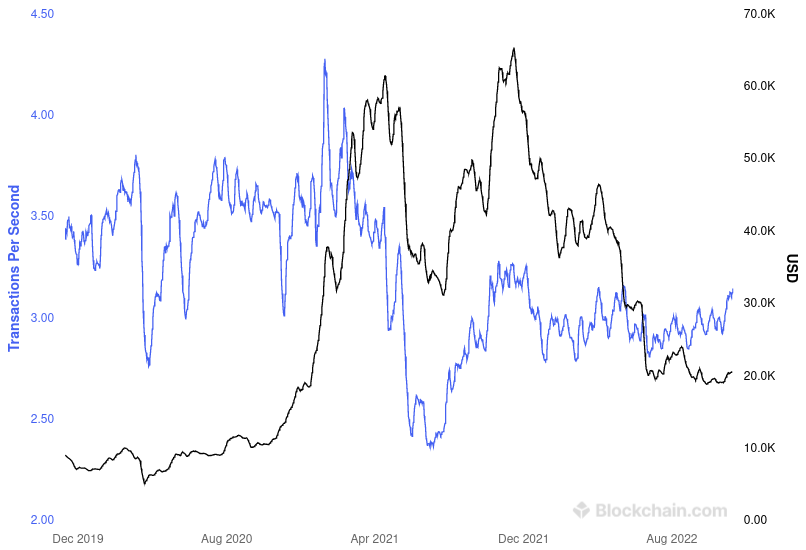
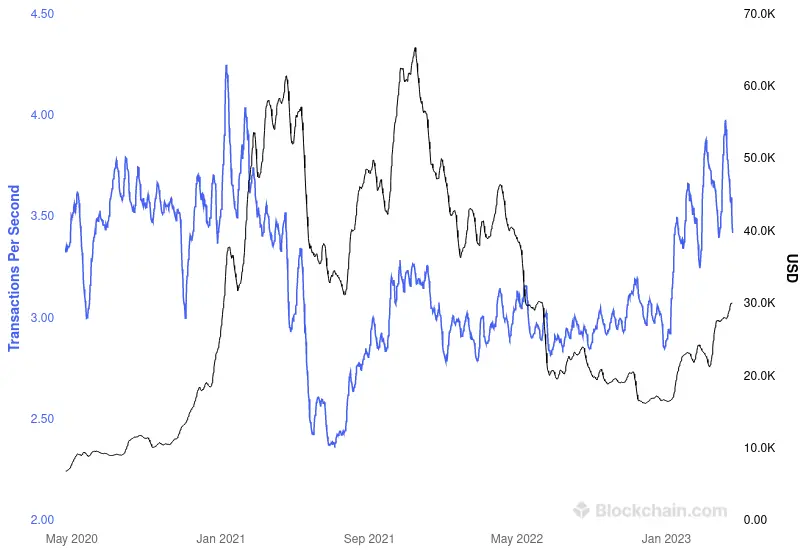
Updates to scalability.html

diff --git a/slides/scalability.html b/slides/scalability.html
@@ -78,12 +78,13 @@ line-height:120%;
 <section data-markdown data-separator="^\n\n\n"><textarea>
 ## BTC transactions per second
 [![](images/timely/btc-tps.webp)](https://www.blockchain.com/charts/transactions-per-second)
-<!-- to generate this graph: set to 7 day average, 3 year history, the right-click and "open image in new tab" -->
+<!-- to generate this graph: set to 7 day average, 3 year history, the right-click and "open image in new tab"; save and convert to .webp with -q 75 -->
 
 
 
 ## ETH & BTC fees, all time
 [![](images/timely/btc-eth-fees-alltime.webp)](https://bitinfocharts.com/comparison/transactionfees-btc-eth.html#alltime)
+<!-- to generate this graph: click on the image in the slide, screenshot it (and the next one), and edit in gimp; convert to .webp with -q 75 -->
 
 
 
@@ -214,15 +215,15 @@ The "parts" of a modern cryptocurrency can be thought of as different "layers", 
 
 <!-- .slide: class="cclogo-slide" -->
 ## Current blockchain stats
-- [![btc logo](../slides/images/logos/btc-coin-symbol.svg)](https://coinmarketcap.com/currencies/bitcoin/) Bitcoin averages:
+- [![btc logo](../slides/images/logos/btc-coin-symbol.svg)](https://coinmarketcap.com/currencies/bitcoin/) Bitcoin averages (as of 4/23/20):
     - $<$10 minute block time
-    - $\approx$3 Mb block size when busy, but [about 1.2 Mb lately](https://www.blockchain.com/charts/avg-block-size)
-    - [1,600 - 1,800 TXNs / block](https://www.blockchain.com/charts/n-transactions-per-block) (60 sec/min * 10 min * 3 TPS)
-    - [About 245,000 TXNs per day](https://www.blockchain.com/charts/n-transactions) ($\approx$2.8 TPS)
-- [![eth logo](../slides/images/logos/eth-coin-symbol.svg)](https://coinmarketcap.com/currencies/ethereum/) Ethereum (post PoS): 
-    - [13 seconds block time](https://etherscan.io/chart/blocktime)
-    - About 90 Kb block size
-        - That's [600 Mb per day](https://messari.io/charts/ethereum/blk-size-byte) added to the blockchain per day!
+    - $\approx$3 Mb block size when busy, but [about 1.7 Mb lately](https://www.blockchain.com/charts/avg-block-size)
+    - [1.8k - 2.5k TXNs / block](https://www.blockchain.com/charts/n-transactions-per-block) (60 sec/min * 10 min * 3 TPS)
+    - [About 300k TXNs per day](https://www.blockchain.com/charts/n-transactions) ($\approx$3.5 TPS)
+- [![eth logo](../slides/images/logos/eth-coin-symbol.svg)](https://coinmarketcap.com/currencies/ethereum/) Ethereum (post PoS) (as of 4/23/20):
+    - [12 seconds block time](https://etherscan.io/chart/blocktime)
+    - About 113 Kb block size
+        - That's [800 Mb per day](https://messari.io/charts/ethereum/blk-size-byte) added to the blockchain per day!
     - [1.1M TXNs per day](https://etherscan.io/chart/tx/) ($\approx$12.7 TPS)
         - Which is about 165 TXNs per block
     - About 13 transactions per second
@@ -230,10 +231,10 @@ The "parts" of a modern cryptocurrency can be thought of as different "layers", 
 
 
 ## Current blockchain stats
-- [Bitcoin's blockchain size](https://ycharts.com/indicators/bitcoin_blockchain_size) is $\approx$436 GB (as of 11/9/22)
+- [Bitcoin's blockchain size](https://ycharts.com/indicators/bitcoin_blockchain_size) is $\approx$475 GB (as of 4/20/23)
     - And increasing at about 150 Mb per day
 - Ethereum's full blockchain is about 1.7 Tb
-    - And increasing at about 600 Mb per day!
+    - And increasing at about 400 Mb per day!
 - This won't be sustainable with increased adoption
 
 
@@ -574,9 +575,9 @@ Roll-out is in three phases:
     - WBTC is thus an ERC-20 token cryptocurrency
 - Once on Ethereum, transactions are *faster*, if not *cheaper* than through Bitcoin
     - But not as fast as on the Lightning Network
-- As of August 2021 ([stats](https://www.bitcoin.com/get-started/what-is-lightning-network/)):
-    - LN had 2,300 BTC locked up
-    - WBTC had 250,000 BTC locked up
+- As of 4/20/23:
+    - [LN stats](https://1ml.com/statistics): had 5,390 BTC locked up
+    - [![wbtc logo](../slides/images/logos/wbtc-coin-symbol.svg)](https://coinmarketcap.com/currencies/wrapped-bitcoin/) WBTC had 154k BTC locked up
 
 
 
